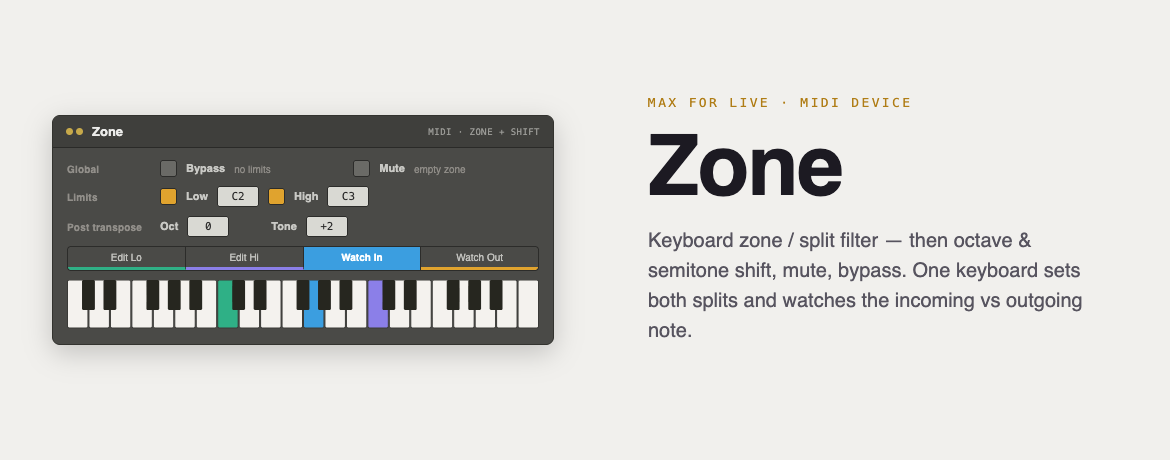
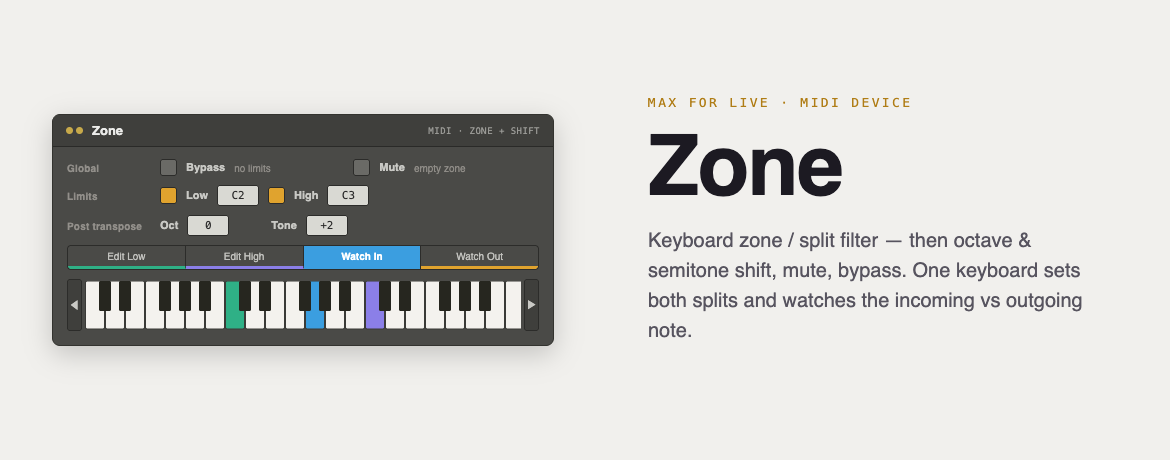
feat: octave-scrollable keyboard view (61 keys, < > arrows); tabs renamed Edit Low/High

diff --git a/zone.js b/zone.js
@@ -1,4 +1,4 @@
-// zone.js — brain of the "Zone" Max for Live MIDI device (v3.3).
+// zone.js — brain of the "Zone" Max for Live MIDI device (v3.4).
 // Keyboard zone / split filter, THEN octave + tone (semitone) shift, plus mute and bypass.
 // One on-screen keyboard, driven by a MODE selector :
 //   0 Edit Low  — play a note or click the keyboard to set the low bound  (Edit IS the learn)
@@ -27,6 +27,7 @@ var mode = 0;
 var held = {};                       // inPitch -> outPitch
 var shown = -1;                      // key currently lit for the Edit-mode bound
 var echo = 0;                        // 1 while we drive the kslider -> its echo must be ignored by kbd()
+var koff = 36;                       // kslider view offset (lowest displayed note) — 61 keys shown, scroll by octave
 
 var COL = { lo: [0.18, 0.69, 0.53, 1], hi: [0.55, 0.50, 0.91, 1], "in": [0.23, 0.62, 0.88, 1], out: [0.88, 0.64, 0.18, 1] };
 
@@ -63,6 +64,12 @@ function noteOff(p) {
 function allOff() { for (var p in held) noteOff(Number(p)); }
 
 function kbd(n) { if (echo) return; if (mode < 2) setBound(n); }   // real click sets the bound ; kslider echo is ignored
+
+// ---- keyboard view scroll (61 visible keys out of 128 ; arrows move one octave) ----
+function kview()  { echo = 1; outlet(3, "offset", koff); echo = 0; }
+function kleft()  { koff = Math.max(0, koff - 12); kview(); }
+function kright() { koff = Math.min(60, koff + 12); kview(); }      // 60 + 61 keys = top of MIDI range
+function loadbang() { kview(); moded(mode); }                       // restore view + mode colour when the device loads
 function moded(v) {
     mode = clamp(v, 0, 3);
     kcol(mode == 0 ? COL.lo : mode == 1 ? COL.hi : mode == 2 ? COL["in"] : COL.out);   // keyboard highlight -> mode colour

diff --git a/gen_zone_maxpat.py b/gen_zone_maxpat.py
@@ -61,9 +61,12 @@ lnum("obj-9",  "hiNote", "High",   [440,130, 60, 18], 72, 0.0,127.0, [193, 34, 3
 # Post-transpose row (y~60) : octave (coarse) + tone (fine), applied AFTER the filter
 lnum("obj-10", "octave", "Octave", [400,160, 60, 18],  0, -4.0, 4.0, [130, 60, 40, 16])
 lnum("obj-11", "semitone","Tone",  [440,160, 60, 18],  0, -12.0,12.0,[214, 60, 40, 16])
-box("obj-14", "live.tab", None, [400, 190, 210, 20], 1, 3, ["", "", ""], {"varname": "mode", "parameter_enable": 1, "presentation": 1, "presentation_rect": [10, 88, 300, 18], "saved_attribute_attributes": {"valueof": {"parameter_longname": "mode", "parameter_shortname": "Mode", "parameter_type": 2, "parameter_enum": ["Edit Lo", "Edit Hi", "Watch In", "Watch Out"], "parameter_mmin": 0, "parameter_mmax": 3}}})
+box("obj-14", "live.tab", None, [400, 190, 210, 20], 1, 3, ["", "", ""], {"varname": "mode", "parameter_enable": 1, "presentation": 1, "presentation_rect": [10, 88, 300, 18], "saved_attribute_attributes": {"valueof": {"parameter_longname": "mode", "parameter_shortname": "Mode", "parameter_type": 2, "parameter_enum": ["Edit Low", "Edit High", "Watch In", "Watch Out"], "parameter_mmin": 0, "parameter_mmax": 3}}})
 # Learn button removed — Edit Lo/Hi mode captures played notes directly
-box("obj-16", "kslider", None, [400, 230, 340, 56], 1, 2, ["int", "int"], {"presentation": 1, "presentation_rect": [10, 112, 440, 38]})
+box("obj-16", "kslider", None, [400, 230, 340, 56], 1, 2, ["int", "int"], {"presentation": 1, "presentation_rect": [26, 112, 408, 38], "offset": 36, "range": 61})
+# octave-scroll arrows for the keyboard view (textbutton = plain UI, not a Live parameter)
+box("obj-17", "textbutton", None, [640, 230, 20, 20], 1, 3, ["", "", ""], {"text": "<", "presentation": 1, "presentation_rect": [10, 112, 14, 38], "fontsize": 9.0})
+box("obj-18", "textbutton", None, [670, 230, 20, 20], 1, 3, ["", "", ""], {"text": ">", "presentation": 1, "presentation_rect": [436, 112, 14, 38], "fontsize": 9.0})
 
 # --- labels (presentation) ---
 lbl("obj-70", "Global",         [10, 11], dim=True)
@@ -82,7 +85,7 @@ lbl("obj-45", "Tone",           [182,62])
 # --- prepends (UI -> js) ---
 pre = {"loon":"obj-6","lo":"obj-7","hion":"obj-8","hi":"obj-9","octaven":"obj-10",
        "semin":"obj-11","muteon":"obj-12","bypasson":"obj-13","moded":"obj-14",
-       "kbd":"obj-16"}
+       "kbd":"obj-16","kleft":"obj-17","kright":"obj-18"}
 pid = {}
 y = 170
 for i,(msg,src) in enumerate(pre.items()):